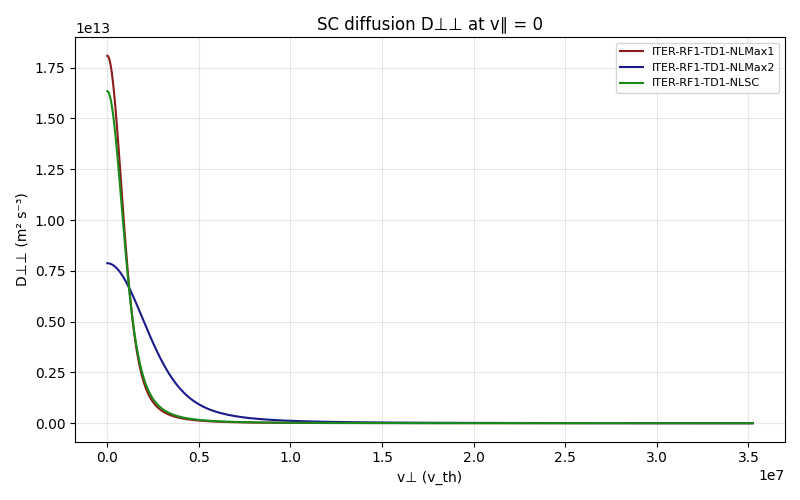
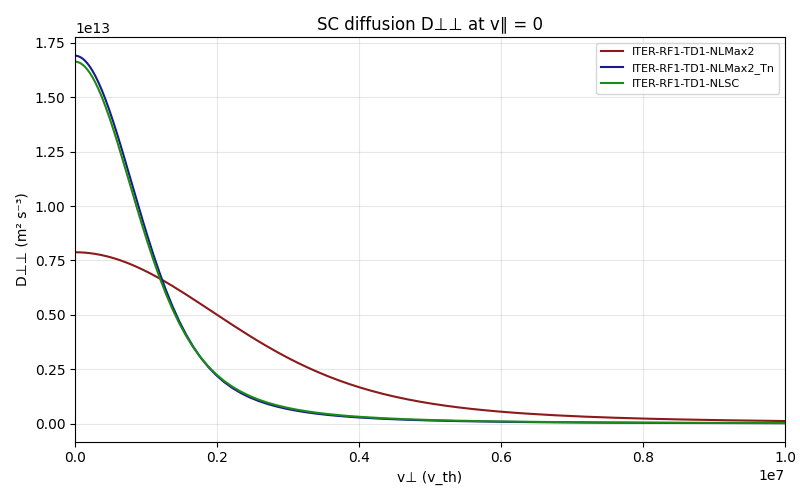
Report v1.2: validate the Tn-adaptive background (isc=3)
- Archive v1.1 (ITER-EDA_RF_case1_isc_comparison_v1.1.tex); main report -> v1.2.
- Add isc=3 (Tn background) throughout: model definition, a 4th column in the
  final-state table (Teff=21.4, P_RF=1.22, P_SC=+0.02 -- matches exact isc=-1),
  and a new validation section showing the full friction/diffusion tensor and
  the Rosenbluth potentials at vpar=0 all reproduce isc=-1 for isc=3 while
  isc=2 (Teff) is the outlier.
- Reframe the D/F diagnostics section around the reprocessed Dpepe/Fpe figures
  (now isc=2/3/-1); fix references accordingly.
- New figures: Dpapa_comp, Dpepa_comp, Fpa_comp, SC_psi/phi_at_vpar0-comps;
  reprocessed Dpepe_comp, Fpe_comp.
- "Further diagnostics" -> "programme complete"; updated conclusions/recommendation
  (use isc=3).

diff --git a/Simulations/ITER-EDA_RF_case1_isc_comparison_v1.1.tex b/Simulations/ITER-EDA_RF_case1_isc_comparison_v1.1.tex
@@ -20,12 +20,11 @@
 
 \title{%
   Self-Collision Models for ITER-EDA RF Case 1:\\
-  fixed-temperature (\texttt{isc=1}), $T_\text{eff}$-adaptive (\texttt{isc=2})
-  and $T_n$-adaptive (\texttt{isc=3}) Maxwellian backgrounds\\
-  vs.\ the nonlinear operator (\texttt{isc=-1})
+  fixed-temperature (\texttt{isc=1}) vs.\ adaptive (\texttt{isc=2})
+  Maxwellian background vs.\ the nonlinear operator (\texttt{isc=-1})
 }
 \author{FP2D\_QLRF\_NL solver --- post-processing analysis}
-\date{Version~1.2 \quad\textbullet\quad \today}
+\date{Version~1.1 \quad\textbullet\quad \today}
 
 \begin{document}
 
@@ -39,12 +38,7 @@ mechanism.\;
 v1.1 --- adds the carried-out diagnostic tests (Section~\ref{sec:tests}:
 common-$f$ operator comparison, velocity-space SC power density, and the
 $P_\text{SC}$ time traces with the self-collision timescale), and refines the
-discussion of the fixed-temperature model.\;
-v1.2 --- adds the $T_n$-adaptive background (\texttt{isc=3}) and its validation
-(Section~\ref{sec:tn}): the full friction/diffusion tensor and the Rosenbluth
-potentials at $v_\parallel=0$ confirm that the density-characteristic
-temperature $T_n$ reproduces the exact operator while $T_\text{eff}$
-(\texttt{isc=2}) does not.
+discussion of the fixed-temperature model.
 \bigskip
 
 % ---------------------------------------------------------------------------
@@ -90,9 +84,9 @@ functionals of $f$ through the Rosenbluth potentials. This operator satisfies
   \int C[f,f]\;\tfrac{1}{2}m v^2\; d^3v \equiv 0 \qquad \forall\, f.
 \end{equation}
 
-\subsection{Linearised operators (\texttt{isc=1}, \texttt{isc=2}, \texttt{isc=3})}
+\subsection{Linearised operators (\texttt{isc=1} and \texttt{isc=2})}
 
-All three Maxwellian-background models replace the field distribution by an
+Both Maxwellian-background models replace the field distribution by an
 isotropic Maxwellian $f_M(T_b)$ and use the \emph{same} linearised operator
 $C[f, f_M(T_b)]$, computed analytically (Chandrasekhar function) in
 \texttt{cblin}. They differ \emph{only} in the choice of the background
@@ -101,25 +95,17 @@ temperature $T_b$:
   \texttt{isc=1}:&\quad T_b = T_\text{Stix} = 12~\text{keV (fixed, the bulk
     temperature)},\\
   \texttt{isc=2}:&\quad T_b = T_\text{eff}(t) = \frac{2T_\perp + T_\parallel}{3}
-    \quad\text{(energy-weighted; evolving with the minority's own energy)},\\
-  \texttt{isc=3}:&\quad T_b = T_n(t) = \frac{m}{\langle v^{-2}\rangle}
-    \quad\text{(density-characteristic; the harmonic mean of $v^2$)}.
+    \quad\text{(evolving with the minority's own energy)}.
 \end{align}
 The Maxwellian background is
 \begin{equation}
-  f_M(v; T_b) = \frac{n}{(2\pi)^{3/2} v_\text{th}^3}
-    \exp\!\left(-\frac{v^2}{2v_\text{th}^2}\right),
+  f_M(v; T_b) = \frac{n}{\pi^{3/2} v_\text{th}^3}
+    \exp\!\left(-\frac{v^2}{v_\text{th}^2}\right),
   \qquad
-  v_\text{th} = 9.79\times10^3\sqrt{T_b[\text{eV}]/A} = \sqrt{T_b/m}.
+  v_\text{th} = 9.79\times10^3\sqrt{T_b[\text{eV}]/A}.
 \end{equation}
-$T_n$ (\texttt{isc=3}) is the density-characteristic temperature derived in the
-companion note: $1/v_{\text{th},n}^2 = \langle v^{-2}\rangle =
-\tfrac1n\!\int f/v^2\,d^3v$, equivalently the $f$-weighted local logarithmic
-slope of $f$. Being dominated by the dense, cold core (small $v$), it tracks
-the bulk rather than the energy-carrying tail; for this case $T_n$ settles at
-$\approx13.5$\,keV while $T_\text{eff}$ is pulled up to $79$\,keV.
 
-A key point for what follows: \emph{none} of the linearised operators conserves
+A key point for what follows: \emph{neither} linearised operator conserves
 energy exactly when $f \neq f_M(T_b)$, because the background acts as an
 external reservoir of infinite heat capacity. The energy moment
 \begin{equation}
@@ -137,30 +123,28 @@ sign and magnitude depend critically on $T_b$, as the results below show.
 
 \begin{table}[h]
 \centering
-\caption{Final-state diagnostics for the four runs (identical solver
-  settings). Powers in MW\,m$^{-3}$. \texttt{isc=3} ($T_n$) reproduces the
-  exact \texttt{isc=-1} result; \texttt{isc=2} ($T_\text{eff}$) runs away.}
+\caption{Final-state diagnostics for the three runs (identical solver
+  settings). Powers in MW\,m$^{-3}$.}
 \label{tab:results}
-\begin{tabular}{lcccc}
+\begin{tabular}{lccc}
 \toprule
-Quantity & \texttt{isc=1} & \texttt{isc=2} & \texttt{isc=3} & \texttt{isc=-1} \\
-         & fixed $12$\,keV & $T_b=T_\text{eff}$ & $T_b=T_n$ & exact \\
+Quantity & \texttt{isc=1} (NLMax1) & \texttt{isc=2} (NLMax2) & \texttt{isc=-1} (NLSC) \\
+         & fixed $T_b=12$\,keV     & adaptive $T_b=T_\text{eff}$ & exact \\
 \midrule
-Converged?                  & Yes (945)  & Yes (1374) & Yes (959) & No (plateau)\footnotemark \\
-$T_\text{eff}$ (keV)        & \textbf{19.4}   & \textbf{78.9}   & \textbf{21.4} & \textbf{22.2} \\
-background $T_b$ (keV)       & 12 (fixed)      & 78.9            & $T_n=13.5$    & --- \\
-$\langle E_\text{kin}\rangle$ (keV) & 29.1    & 118.3           & 32.2          & 33.3 \\
-$E_\perp$ (keV)             & 22.8            & 105.3           & 25.5          & 26.6 \\
-$E_\parallel$ (keV)         & 6.34            & 13.0            & 6.70          & 6.71 \\
-Anisotropy                  & 64.2\%          & 80.1\%          & 65.5\%        & 66.5\% \\
+Converged?                  & Yes (step 945)  & Yes (step 1374) & No (plateau)\footnotemark \\
+$T_\text{eff}$ (keV)        & \textbf{19.4}   & \textbf{78.9}   & \textbf{22.2} \\
+$\langle E_\text{kin}\rangle$ (keV) & 29.1    & 118.3           & 33.3 \\
+$E_\perp$ (keV)             & 22.8            & 105.3           & 26.6 \\
+$E_\parallel$ (keV)         & 6.34            & 13.0            & 6.71 \\
+Anisotropy                  & 64.2\%          & 80.1\%          & 66.5\% \\
 \midrule
-$P_\text{RF}$               & 1.128           & 3.413           & 1.216         & 1.247 \\
-$P_\text{coll,e}$           & $-0.271$        & $-2.430$        & $-0.345$      & $-0.372$ \\
-$P_\text{coll,D}$           & $-0.477$        & $-4.486$        & $-0.894$      & $-0.872$ \\
-$P_{\mathrm{SC},\perp}$     & $-0.394$        & $+2.131$        & $-0.129$      & $-0.137$ \\
-$P_{\mathrm{SC},\parallel}$ & $+0.014$        & $+1.359$        & $+0.153$      & $+0.135$ \\
-$P_{\mathrm{SC,total}}$     & $\mathbf{-0.380}$ & $\mathbf{+3.490}$ & $\mathbf{+0.023}$ & $\mathbf{-0.002}$ \\
-Power balance residual      & $-2.2\times10^{-4}$ & $-1.3\times10^{-2}$ & $-3.0\times10^{-4}$ & $-1.6\times10^{-4}$ \\
+$P_\text{RF}$               & 1.128           & 3.413           & 1.247 \\
+$P_\text{coll,e}$           & $-0.271$        & $-2.430$        & $-0.372$ \\
+$P_\text{coll,D}$           & $-0.477$        & $-4.486$        & $-0.872$ \\
+$P_{\mathrm{SC},\perp}$     & $-0.394$        & $+2.131$        & $-0.137$ \\
+$P_{\mathrm{SC},\parallel}$ & $+0.014$        & $+1.359$        & $+0.135$ \\
+$P_{\mathrm{SC,total}}$     & $\mathbf{-0.380}$ & $\mathbf{+3.490}$ & $\mathbf{-0.002}$ \\
+Power balance residual      & $-2.2\times10^{-4}$ & $-1.3\times10^{-2}$ & $-1.6\times10^{-4}$ \\
 \bottomrule
 \end{tabular}
 \end{table}
@@ -188,17 +172,6 @@ $T_b$. The failure of \texttt{isc=2} therefore \emph{cannot} be attributed to
 the linearisation itself, nor to the fact that $f$ is non-Maxwellian (both
 models see the same non-Maxwellian $f$). The culprit must be the choice
 $T_b = T_\text{eff}$.
-
-The decisive confirmation is \texttt{isc=3}: keeping the \emph{same} linearised
-operator but setting $T_b = T_n$ (density-characteristic) instead of
-$T_\text{eff}$ removes the runaway entirely. It converges
-($t = 9.6$\,s) to $T_\text{eff} = 21.4$\,keV and $P_\text{RF} =
-1.22$\,MW\,m$^{-3}$ --- within a few percent of the exact \texttt{isc=-1}
-values --- with a near-conserving $P_\text{SC} = +0.02$\,MW\,m$^{-3}$, the
-background $T_n$ settling at $13.5$\,keV (close to the $12$\,keV bulk). The
-single change $T_\text{eff}\!\to\!T_n$ thus converts the pathological model
-into a faithful one; Section~\ref{sec:tn} shows this holds component by
-component.
 
 The time evolution of $T_\text{eff}$ (Fig.~\ref{fig:teff}) makes the contrast
 vivid. \texttt{isc=1} and \texttt{isc=-1} both rise from $12$\,keV and level
@@ -245,51 +218,43 @@ differently in the three cases:
 % ---------------------------------------------------------------------------
 
 To pinpoint the mechanism we output, at the end of each run, the
-self-collision friction/diffusion coefficients and the Rosenbluth potentials
-along the $v_\parallel = 0$ slice, as the actual FP operator coefficients
-(carrying the $\gamma$ / $\text{coef}=-4\pi\gamma/n$ prefactor, so the
-backgrounds are directly comparable). For the Maxwellian backgrounds
-(\texttt{isc=1,2,3}) they come from the \texttt{cblin} functions
-($D_{\perp\perp} = \gamma(\Theta + v_\parallel^2\Phi)$,
-$F_\perp = -\gamma v_\perp\Psi$, etc.); for \texttt{isc=-1} they are
-reconstructed from the numerically-computed Rosenbluth potentials
-($D_{\perp\perp} = \text{coef}\,\partial^2\psi/\partial v_\perp^2$,
-$F_\perp = \text{coef}\,\partial\phi/\partial v_\perp$).
-
-The comparison figures here overlay \texttt{isc=2} ($T_\text{eff}$),
-\texttt{isc=3} ($T_n$) and \texttt{isc=-1} (exact) --- the three runs sharing
-the question ``does the adaptive background reproduce the true operator?''
-(\texttt{isc=1}, the fixed-bulk reference, behaves like \texttt{isc=3} since
-both sit near the bulk temperature; see Table~\ref{tab:results}).
+perpendicular diffusion coefficient $D_{\perp\perp}$ and the perpendicular
+friction $F_\perp$ of the self-collision operator along the $v_\parallel = 0$
+slice. For \texttt{isc=1,2} these come directly from \texttt{cblin}
+($D_{\perp\perp} = \Theta + v_\parallel^2\Phi$, $F_\perp = -v_\perp\Psi$); for
+\texttt{isc=-1} they are reconstructed from the numerically-computed
+Rosenbluth potentials ($D_{\perp\perp} = -\tfrac{4\pi\gamma}{n}\,
+\partial^2\psi/\partial v_\perp^2$,
+$F_\perp = -\tfrac{4\pi\gamma}{n}\,\partial\phi/\partial v_\perp$).
 
 \begin{figure}[h]
   \centering
   \includegraphics[width=0.49\textwidth]{../Dpepe_comp.png}\hfill
   \includegraphics[width=0.49\textwidth]{../Fpe_comp.png}
   \caption{Self-collision perpendicular diffusion $D_{\perp\perp}$ (left) and
-    friction $F_\perp$ (right) at $v_\parallel = 0$. \texttt{isc=3} ($T_n$,
-    blue) and \texttt{isc=-1} (exact, green) nearly coincide; \texttt{isc=2}
-    ($T_\text{eff}$, red) is qualitatively different: its diffusion is lower at
-    the axis but far broader in $v_\perp$, and its friction is $\sim$5$\times$
-    weaker with its minimum displaced to higher $v_\perp$.}
+    friction $F_\perp$ (right) at $v_\parallel = 0$, for the final state of
+    each run. \texttt{isc=1} (red) and \texttt{isc=-1} (green) nearly
+    coincide; \texttt{isc=2} (blue) is qualitatively different: its diffusion
+    is lower at the axis but far broader in $v_\perp$, and its friction is
+    $\sim$5$\times$ weaker with its minimum displaced to higher $v_\perp$.}
   \label{fig:dpepe_fpe}
 \end{figure}
 
 The diagnostics (Fig.~\ref{fig:dpepe_fpe}) are unambiguous:
 
 \begin{itemize}
-  \item \textbf{\texttt{isc=3} ($T_n$) and \texttt{isc=-1} coincide.} Both
-        $D_{\perp\perp}$ (peak $\approx 1.7\times10^{13}$\,m$^2$\,s$^{-3}$
+  \item \textbf{\texttt{isc=1} and \texttt{isc=-1} coincide.} Both
+        $D_{\perp\perp}$ (peak $\approx 1.7$--$1.8\times10^{13}$\,m$^2$\,s$^{-3}$
         at the axis, decaying to zero by $v_\perp \approx 5$\,Mm\,s$^{-1}$) and
         $F_\perp$ (deep well, minimum $\approx -2\times10^{7}$\,m\,s$^{-2}$ at
-        $v_\perp \approx 0.9$\,Mm\,s$^{-1}$) are essentially the same for the
-        $T_n$ background and the exact operator.
+        $v_\perp \approx 0.8$\,Mm\,s$^{-1}$) are essentially the same for the
+        fixed-$12$\,keV background and the exact operator.
 
-  \item \textbf{\texttt{isc=2} ($T_\text{eff}$) is qualitatively wrong.} Its
-        diffusion peak is less than half ($\approx 0.8\times10^{13}$) but
-        \emph{extends far out in $v_\perp$} --- significant diffusion persists
-        beyond $v_\perp \approx 5$\,Mm\,s$^{-1}$, where the other two have
-        vanished. Its friction well is $\sim$5$\times$ shallower
+  \item \textbf{\texttt{isc=2} is qualitatively wrong.} Its diffusion peak is
+        less than half ($\approx 0.8\times10^{13}$) but \emph{extends far out
+        in $v_\perp$} --- significant diffusion persists out to
+        $v_\perp \approx 10$\,Mm\,s$^{-1}$, where the other two have vanished.
+        Its friction well is $\sim$5$\times$ shallower
         ($\approx -0.4\times10^{7}$) and displaced outward to
         $v_\perp \approx 2$\,Mm\,s$^{-1}$.
 \end{itemize}
@@ -309,20 +274,16 @@ even after RF heating, remains close to the $12$\,keV core, because the RF
 populates a thin perpendicular tail that carries much energy but little
 particle number.
 
-This is precisely why a \emph{bulk-characteristic} background temperature
-works: a Maxwellian at the bulk temperature --- whether the fixed $12$\,keV of
-\texttt{isc=1} or the adaptive $T_n\approx13.5$\,keV of \texttt{isc=3} --- is an
-excellent proxy for the true collisional field, because that field is set by
-the bulk. Figure~\ref{fig:dpepe_fpe} shows the $T_n$ background (\texttt{isc=3})
-reproducing the exact $D_{\perp\perp}$ and $F_\perp$. The fixed-background
-operator (\texttt{isc=1}) is, in effect, an extra drag against a cold thermal
-population --- an additional bulk-ion collision channel with the stabilising
-(cooling) sign; its steady state agrees with the exact one, though on a
-\emph{fixed} $f$ its energy moment is a sizeable sink rather than $\approx0$
-(Test~1, Section~\ref{sec:tests}). \texttt{isc=3} ($T_n$) is the
-self-consistent realisation of the same idea: it tracks the bulk temperature
-as the distribution evolves, and (Section~\ref{sec:tn}) matches the exact
-operator not just in steady state but component by component.
+This is precisely why \texttt{isc=1} works (Fig.~\ref{fig:dpepe_fpe}): a fixed
+Maxwellian at the \emph{bulk} temperature ($12$\,keV) is an excellent proxy
+for the true collisional field, because the true field is set by the bulk. The
+fixed-background operator is, in effect, an extra drag against a cold thermal
+population --- physically equivalent to an additional bulk-ion collision
+channel, with the stabilising (cooling) sign. This agreement concerns the
+$D_{\perp\perp}/F_\perp$ \emph{shapes} near the bulk and the self-consistent
+steady state; applied to a \emph{fixed} $f$ the energy moment of the
+\texttt{isc=1} operator still differs markedly from the exact one (it is a
+sizeable sink, not $\approx0$) --- see Test~1, Section~\ref{sec:tests}.
 
 $T_\text{eff} = (2T_\perp + T_\parallel)/3$, on the other hand, is an
 \emph{energy-weighted} moment. It is pulled up to $79$\,keV by the
@@ -519,88 +480,30 @@ plus the feedback). The pathology therefore announces itself within one
 self-collision time and then drives the slow runaway.
 
 % ---------------------------------------------------------------------------
-\section{Validation of the \texorpdfstring{$T_n$}{Tn}-adaptive background (\texttt{isc=3})}
-\label{sec:tn}
+\section{Further diagnostics not yet carried out}
 % ---------------------------------------------------------------------------
 
-The v1.1 analysis identified the cure: replace the energy-weighted
-$T_\text{eff}$ by a density-characteristic temperature that follows the bulk.
-This is now implemented as \texttt{isc=3} ($T_b = T_n$, the harmonic mean of
-$v^2$). The macroscopic result is decisive (Table~\ref{tab:results}):
-\texttt{isc=3} converges in $9.6$\,s to $T_\text{eff} = 21.4$\,keV,
-$P_\text{RF} = 1.22$\,MW\,m$^{-3}$ and a near-conserving
-$P_\text{SC} = +0.02$\,MW\,m$^{-3}$, all within a few percent of the exact
-\texttt{isc=-1} values, with the background settling at $T_n = 13.5$\,keV. The
-single change $T_\text{eff}\!\to\!T_n$ turns the runaway into a faithful model.
+Tests~1, 2 and~5 above have been carried out (Section~\ref{sec:tests}). The
+following would further strengthen the analysis:
 
-The microscopic diagnostics confirm this is not a coincidence of the energy
-balance but holds for \emph{every} component of the operator, at
-$v_\parallel=0$.
+\begin{itemize}
+  \item \textbf{Two background temperatures side by side.} Output both
+        $T_\text{eff}$ (energy-weighted) and a density-characteristic
+        temperature $T_n$ (e.g.\ from the curvature of $\ln f$ near the core,
+        or a low-order moment dominated by the bulk). The gap
+        $T_\text{eff}/T_n$ quantifies exactly how far the \texttt{isc=2}
+        background departs from the collisionally-relevant temperature, and
+        would let one test an ``\texttt{isc=2} with $T_b = T_n$'' variant.
 
-\paragraph{Diffusion tensor and friction.}
-$D_{\perp\perp}$ and $F_\perp$ were shown in Fig.~\ref{fig:dpepe_fpe}. The
-remaining components behave identically: \texttt{isc=3} ($T_n$) tracks the
-exact \texttt{isc=-1}, while \texttt{isc=2} ($T_\text{eff}$) is far off.
+  \item \textbf{Parallel and cross coefficients.} Add $D_{\parallel\parallel}$,
+        $F_\parallel$ and the off-diagonal $D_{\perp\parallel}$ (slices and 2D
+        maps) to confirm the anisotropic structure and check that the
+        perpendicular channel is indeed the dominant error.
 
-\begin{figure}[h]
-  \centering
-  \includegraphics[width=0.49\textwidth]{../Dpapa_comp.png}\hfill
-  \includegraphics[width=0.49\textwidth]{../Dpepa_comp.png}
-  \caption{Parallel diffusion $D_{\parallel\parallel}$ (left) and cross
-    diffusion $D_{\perp\parallel}$ (right) at $v_\parallel=0$. \texttt{isc=3}
-    ($T_n$, blue) closely follows \texttt{isc=-1} (exact, green); \texttt{isc=2}
-    ($T_\text{eff}$, red) is much lower at the axis and broader. The cross term
-    vanishes at $v_\parallel=0$ by symmetry and peaks at $v_\perp\approx
-    1$\,Mm\,s$^{-1}$.}
-  \label{fig:dpapa_dpepa}
-\end{figure}
-
-\begin{figure}[h]
-  \centering
-  \includegraphics[width=0.62\textwidth]{../Fpa_comp.png}
-  \caption{Parallel friction $F_\parallel$ at $v_\parallel=0$. \texttt{isc=3}
-    ($T_n$, blue) is close to the exact \texttt{isc=-1} (green, within
-    $\sim$15\% at the axis), whereas \texttt{isc=2} ($T_\text{eff}$, red) is an
-    order of magnitude too weak.}
-  \label{fig:fpa}
-\end{figure}
-
-\paragraph{Rosenbluth potentials.}
-One level below $D$ and $F$, the potentials themselves (Fig.~\ref{fig:psiphi})
-tell the same story: the $T_n$ background reproduces both $\psi$ and $\phi$ of
-the exact operator, while the $T_\text{eff}$ background departs near the axis.
-
-\begin{figure}[h]
-  \centering
-  \includegraphics[width=0.49\textwidth]{../SC_psi_at_vpar0-comps.png}\hfill
-  \includegraphics[width=0.49\textwidth]{../SC_phi_at_vpar0-comps.png}
-  \caption{Rosenbluth potentials $\psi$ (left) and $\phi$ (right) at
-    $v_\parallel=0$. \texttt{isc=3} ($T_n$, blue) overlays \texttt{isc=-1}
-    (green); \texttt{isc=2} ($T_\text{eff}$, red) deviates near the axis (more
-    negative $\psi$, less negative $\phi$). All three $\psi$ curves share the
-    same linear large-$v$ asymptote $\psi\sim-n v/(8\pi)$.}
-  \label{fig:psiphi}
-\end{figure}
-
-Across the entire friction/diffusion tensor and both potentials, the
-density-characteristic background ($T_n$, \texttt{isc=3}) reproduces the exact
-nonlinear operator, whereas the energy-weighted background ($T_\text{eff}$,
-\texttt{isc=2}) does not. This is the microscopic origin of the macroscopic
-agreement in Table~\ref{tab:results}.
-
-% ---------------------------------------------------------------------------
-\section{Status of the diagnostic programme}
-% ---------------------------------------------------------------------------
-
-All diagnostics proposed in v1.0/v1.1 have now been carried out:
-the common-$f$ operator comparison, the velocity-space SC power density and the
-$P_\text{SC}$ time traces (Section~\ref{sec:tests}); the two background
-temperatures side by side ($T_\text{eff}$ vs $T_n$, both written to
-\texttt{Teff\_vs\_time} / \texttt{Tn\_vs\_time}, with \texttt{isc=3} as the
-``$T_b=T_n$'' variant); the parallel and cross coefficients
-$D_{\parallel\parallel}$, $D_{\perp\parallel}$, $F_\parallel$
-(Figs.~\ref{fig:dpapa_dpepa}--\ref{fig:fpa}); and the Rosenbluth potentials
-$\psi$, $\phi$ (Fig.~\ref{fig:psiphi}). All point to the same conclusion.
+  \item \textbf{The Rosenbluth potentials $\psi$, $\phi$} (or their key
+        $v_\perp$ derivatives) for the exact field vs.\ the two Maxwellian
+        backgrounds, to visualise the root cause one level below $D$ and $F$.
+\end{itemize}
 
 % ---------------------------------------------------------------------------
 \section{Conclusions}
@@ -635,25 +538,15 @@ $\psi$, $\phi$ (Fig.~\ref{fig:psiphi}). All point to the same conclusion.
         artificially hot, broad perpendicular distribution improving the
         2nd-harmonic resonant coupling.
 
-  \item \textbf{The $T_n$-adaptive background (\texttt{isc=3}) fixes it.}
-        Keeping the same linearised operator but using the
-        density-characteristic temperature $T_n$ (harmonic mean of $v^2$,
-        which tracks the bulk) instead of $T_\text{eff}$ removes the runaway:
-        \texttt{isc=3} converges to $T_\text{eff}=21.4$\,keV,
-        $P_\text{RF}=1.22$\,MW\,m$^{-3}$ and $P_\text{SC}\approx0$, matching the
-        exact \texttt{isc=-1} operator to a few percent. The agreement holds
-        component by component --- the full friction/diffusion tensor and both
-        Rosenbluth potentials (Section~\ref{sec:tn}) --- confirming that $T_n$
-        characterises the collisionally-relevant (density-weighted) background,
-        whereas $T_\text{eff}$ does not.
-
-  \item \textbf{Recommendation.} For RF-driven or otherwise non-Maxwellian
-        distributions, do not use \texttt{isc=2} ($T_b = T_\text{eff}$). When a
-        self-collision model cheaper than the full nonlinear operator is
-        wanted, use \texttt{isc=3} ($T_b = T_n$): it is self-consistent,
-        reproduces the exact operator here, and adds only a moment evaluation
-        per step. \texttt{isc=1} (fixed bulk temperature) is a serviceable
-        fallback when a representative bulk temperature is known a priori.
+  \item \textbf{Recommendation.} \texttt{isc=2} as currently defined
+        ($T_b = T_\text{eff}$) should not be used for RF-driven or otherwise
+        non-Maxwellian distributions. If a self-consistent self-collision
+        model cheaper than the full nonlinear operator is needed,
+        \texttt{isc=1} (fixed bulk-temperature background) is far more
+        reliable here. A possible improvement to \texttt{isc=2} would be to
+        define its background temperature from a density-weighted measure
+        $T_n$ rather than the energy-weighted $T_\text{eff}$ (diagnostic~3
+        above).
 \end{enumerate}
 
 \end{document}
